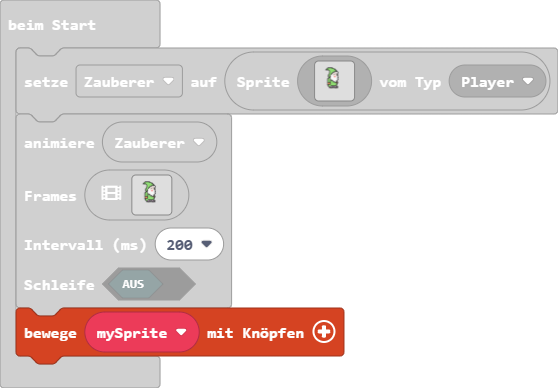
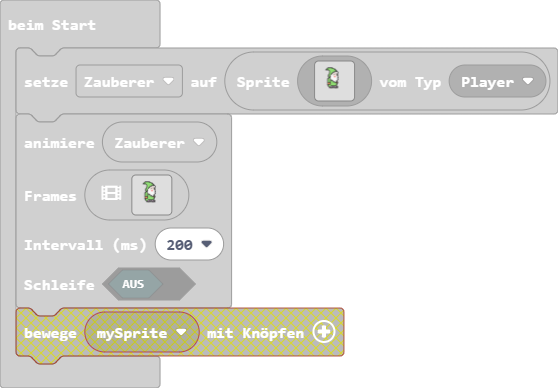
Aktualisiere main.blocks, main.ts

Changed region(s): [[0.0305, 0.7732, 0.6398, 0.9588]]

diff --git a/main.ts b/main.ts
@@ -1,4 +1,3 @@
-let mySprite: Sprite = null
 let Zauberer = sprites.create(assets.image`Magier Normal`, SpriteKind.Player)
 animation.runImageAnimation(
 Zauberer,
@@ -6,4 +5,3 @@ assets.animation`MagierZaubertAnimation`,
 200,
 false
 )
-controller.moveSprite(mySprite)
